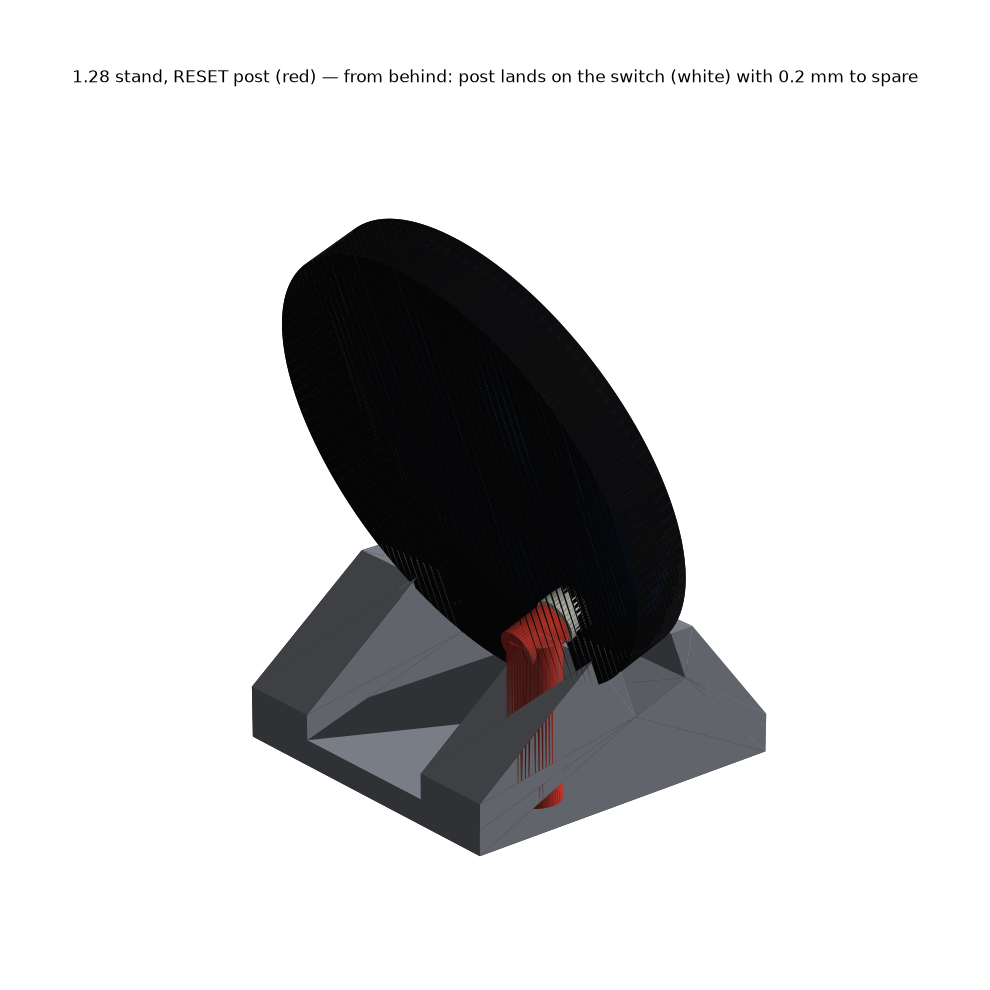
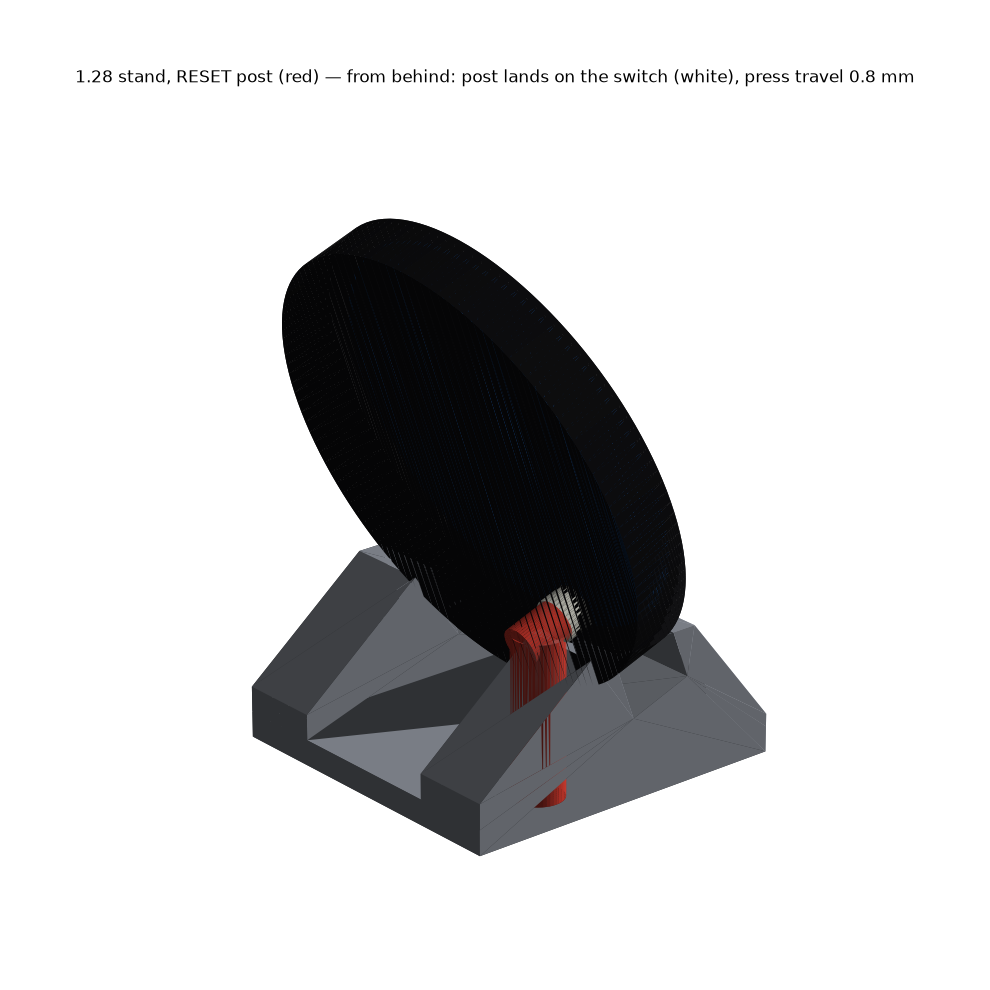
1.28 groove 5.0 -> 5.4; button pad placed from the front wall, press travel asserted
The 5.0 stand printed just barely too narrow: the leaned groove walls
stair-step into the slot, the gauge slots do not. Widening also fixes a
latent fault: at 5.0 the badge could rock only 0.10 mm at the switch before
bottoming out, so BOOT/RESET would not have clicked. Pad now sits REST_CLR
off the cap with the badge upright against the front wall: 0.8 mm travel.

diff --git a/build_stand_button.py b/build_stand_button.py
@@ -7,7 +7,7 @@ behind the badge, placed exactly behind the BOOT (or RESET) tactile switch.
 Press the display and the badge rocks back in its groove onto the post: the
 switch is the softest thing in the load path, so it is what gives -- click.
 
-Because the badge leans on the groove's rear lip 2.6 mm *below* the post, a
+Because the badge leans on the groove's rear lip just *below* the post, a
 push at the top of the display is levered ~12x onto the switch. A light tap
 does it; the badge's own weight (~30 gf on the post) does not.
 
@@ -50,7 +50,12 @@ def board_pt(bx, by, depth):                                       # depth: + = 
     yz = ctr + ax_*by + pp_*depth
     return np.array([W/2 + bx, yz[0], yz[1]])
 
-tip  = board_pt(*SWITCH, T/2 + CAP_H + REST_CLR)
+# The badge is loose in the groove by (gap - T) and rocks in it. Place the pad from the groove's
+# FRONT wall: with the badge pushed upright against that wall the cap clears the pad by REST_CLR,
+# so the post can never hold the switch down, whatever the real rim thickness turns out to be.
+G = p["gap"]
+tip_depth = -G/2 + T + CAP_H + REST_CLR                           # behind the groove centre-plane
+tip  = board_pt(*SWITCH, tip_depth)
 base = tip + np.array([0, pp_[0], pp_[1]]) * POST_LEN
 def along_perp(make, half_len):
     """make(): a manifold built along +Z from z=0. Return it rotated so +Z lies along perp,
@@ -86,6 +91,16 @@ lip_h = p["base_h"]                                                 # groove ope
 btn_up = (tip[2] - bc[1]) / axis[1]                                # along the board, from the groove floor
 print(f"switch sits {btn_up:.1f} mm up the badge; rear lip at {p['depth']:.0f} mm  ->  lever to the top ≈ "
       f"{(2*R - btn_up)/(btn_up - p['depth']):.0f}x")
+# Can a press actually click it? Fully rocked back the badge lies on the rear lip with its bottom
+# front edge on the front wall; the cap must be able to travel well past the pad before that.
+SW_TRAVEL = 0.25                                                    # typical tact switch
+u_lip = p["depth"] + G/2*math.tan(math.radians(p["lean"]))         # rear lip, up the board from the groove floor
+u_sw  = (R - sag) + SWITCH[1]                                       # switch, up the board from the groove floor
+cap_max = G/2 + (u_sw - u_lip)*(G - T)/u_lip + CAP_H
+press = cap_max - tip_depth
+print(f"press travel {press:.2f} mm available at the switch (needs {SW_TRAVEL}); badge loose by {G-T:.1f} in the groove")
+assert u_sw > u_lip, "switch is below the rear lip -- pressing the screen would lift it off the post"
+assert press >= 2*SW_TRAVEL, f"badge bottoms out in the groove after {press:.2f} mm -- the switch would not click"
 assert x1 - POST_R > tip[0] or tip[0] > x2 + POST_R, "post would land in the cable notch"
 
 name = f"stl/small/Stand - {BUTTON} button.stl"
@@ -99,7 +114,7 @@ sw    = along_perp(lambda: m3.Manifold.cylinder(CAP_H, 1.75, circular_segments=3
 grey, dark, red, blue = (0.62, 0.64, 0.68), (0.07, 0.07, 0.08), (0.90, 0.25, 0.20), (0.15, 0.48, 0.90)
 render([(stand, grey), (post, red), (badge, dark), (face, blue), (sw, (0.95, 0.95, 0.9))],
        f"renders/stand-1.28-{BUTTON}-post-back.png", elev=22, azim=140,
-       title=f"1.28 stand, {BUTTON} post (red) — from behind: post lands on the switch (white) with {REST_CLR} mm to spare")
+       title=f"1.28 stand, {BUTTON} post (red) — from behind: post lands on the switch (white), press travel {press:.1f} mm")
 render([(stand, grey), (post, red), (badge, dark), (face, blue)],
        f"renders/stand-1.28-{BUTTON}-post-front.png", elev=12, azim=-62,
        title=f"1.28 stand, {BUTTON} post — from the front, badge seated USB-C up; press the screen to click {BUTTON}")

diff --git a/build_stands.py b/build_stands.py
@@ -139,7 +139,7 @@ BOARDS = {
         group = "stand",
         label   = "ESP32-S3-LCD-1.28 (SKU 26541)",
         board_d = 36.5, thick = 4.7, screen_d = 32.4,   # PCB + display module at the rim (gauge, 09-18)
-        gap = 5.0, lean = 20, depth = 5.0,             # the fit-gauge slot it drops into; fit already in it
+        gap = 5.4, lean = 20, depth = 5.0,             # gauge slot 5.0 + 0.4: the leaned walls stair-step ~0.1 each into the slot (print 09-20)
         base_d = 27.0, base_h = 12.0, front_h = 3.0, back_h = 4.0,
         ridge_half = 2.0, width = 26.0, slot_y = 12.0,
         notch_w = 13.0, notch_floor = 2.0,

diff --git a/PRINTING.md b/PRINTING.md
@@ -112,12 +112,13 @@ actually *increases* groove engagement slightly.
 ## The 1.28 button-post stands
 
 `small/Stand - BOOT button.stl` and `small/Stand - RESET button.stl` are the plain 1.28 stand
-with one addition: a Ø3.2 pad on a Ø4 column, standing 3.6 mm out of the right
+with one addition: a Ø3.2 pad on a Ø4 column, standing 3.1 mm out of the right
 (BOOT) or left (RESET) shoulder, exactly behind that switch on the badge's back.
 
 **How it clicks.** The badge leans back in its groove, resting on the groove's
 rear lip 5 mm up its rim. The switch is 7.7 mm up — 2.7 mm above that lip — and
-the pad sits 0.2 mm off its cap. Press anywhere near the top of the screen and
+the pad is placed from the groove's *front* wall, so it can never hold the
+switch down; the badge simply leans back onto it. Press anywhere near the top of the screen and
 the badge tries to rotate about the lip; the switch is the softest thing in the
 load path, so it is what compresses. Because the switch is so close to the
 pivot, a push at the top is levered **~11×** onto it: a light tap does it. The
@@ -175,7 +176,7 @@ with 5 mm pins, and 8 mm pins clear by 8 mm+ everywhere.
 
 ## If the fit is wrong
 
-`fit` — the slop added to the board's thickness — is 0.8 mm on the 1.46s; the 1.28's groove is 5.0 mm, measured with the fit gauge. It is
+`fit` — the slop added to the board's thickness — is 0.8 mm on the 1.46s; the 1.28's groove is 5.4 mm (the fit gauge's 5.0 slot + 0.4, because the leaned groove walls stair-step into the slot). It is
 the only number likely to need touching. A 0.6 mm nozzle tends to come out
 slightly undersized, which is why it starts generous.
 

diff --git a/docs/DESIGN.md b/docs/DESIGN.md
@@ -73,6 +73,19 @@ button post back to meet the switch. Pod 1.28 cups: `seat_t` 1.6 → 4.7, so the
 pocket is 7.7 deep (seat + ring) and the trim ring lands on the display module,
 not 3 mm proud of it.
 
+**1.28 groove 5.0 → 5.4; button pad placed from the front wall** (09-20). The
+5.0 stand printed "just barely too narrow": the gauge's slots are vertical, the
+stand's groove leans 20°, and leaned walls print as 0.3 mm stair-steps that each
+reach ~0.1 into the slot. His worry — a wider slot lets the badge sink away from
+the post — was wrong about height (the groove *floor* sets that) but found a real
+hole: the pad was placed from the groove centre with nothing checking the badge
+could rock far enough to click. At 5.0 it could not: **0.10 mm** of press travel
+before the badge bottomed out on the front wall; a tact switch needs ~0.25. A
+wider groove *helps*. Replaced: pad at `T/2 + CAP_H + REST_CLR` from the centre
+→ `REST_CLR` clear of the cap with the badge upright against the front wall.
+Now **0.8 mm** of travel, ≥0.7 for any rim 4.5–4.9 thick, and
+`build_stand_button.py` asserts ≥ 2× switch travel.
+
 **Cup stand, and what it caught before printing** (09-18). A test of the pod's
 cup at ~16 g: `cup()` pulled out of `pod()` (pod STL byte-identical after the
 refactor), put on a 20° desk base, exported face-up. Rendering it against the

diff --git a/docs/PRINT-LOG.md b/docs/PRINT-LOG.md
@@ -15,6 +15,21 @@ Template:
 
 ---
 
+## 2026-09-20 — 1.28 button-post stand, 5.0 mm groove (`small/Stand - … button.stl`)
+- material / presets: presumed the usual (PETG, ECC2 0.6 / 0.30 mm)
+- result: **"just barely too narrow."** The gauge's 5.0 slot took the badge but
+  the stand's 5.0 groove does not: the groove leans 20°, so its walls print as
+  0.3 mm stair-steps that each reach ~0.1 mm into the slot, which the gauge's
+  slots do not have.
+- his worry: once the slot is wide enough the badge will sink and the post
+  won't reach the button. Height is set by the groove *floor*, not its width —
+  but the post was placed from the groove centre with no check that the badge
+  can rock far enough to click. Checked, see fit numbers.
+- fit numbers to change: 1.28 `gap` 5.0 → **5.4**. Button pad re-placed from the
+  groove's front wall (was: from its centre) — press travel at the switch
+  0.10 mm at the old 5.0 → **0.8 mm**, now asserted. Details in DESIGN.md.
+- photo: none
+
 ## 2026-09-18 — fit gauge (`small/Slot fit gauge.stl`)
 - material / presets: presumed the usual (PETG, ECC2 0.6 / 0.30 mm)
 - result: **printed.** Photo from behind: the 1.28 stands seated in the **5th

diff --git a/README.md b/README.md
@@ -10,7 +10,7 @@ flexes, no fasteners.
 
 | board | stand | groove | notch | screen top | material |
 |---|---|---|---|---|---|
-| ESP32-S3-LCD-1.28 (SKU 26541) | [`stl/small/Stand.stl`](stl/small/Stand.stl) | 5.0 × 5 mm | 13 mm | 41.6 mm | 4.6 g |
+| ESP32-S3-LCD-1.28 (SKU 26541) | [`stl/small/Stand.stl`](stl/small/Stand.stl) | 5.4 × 5 mm | 13 mm | 41.6 mm | 4.6 g |
 | ESP32-S3-Touch-LCD-1.46, cover glass | [`stl/large/Stand - cover glass.stl`](<stl/large/Stand - cover glass.stl>) | 13.1 × 8 mm | 14 mm | 50.6 mm | 8.9 g |
 | ESP32-S3-Touch-LCD-1.46, bare | [`stl/large/Stand - no cover glass.stl`](<stl/large/Stand - no cover glass.stl>) | 11.5 × 8 mm | 14 mm | 48.5 mm | 8.2 g |
 
